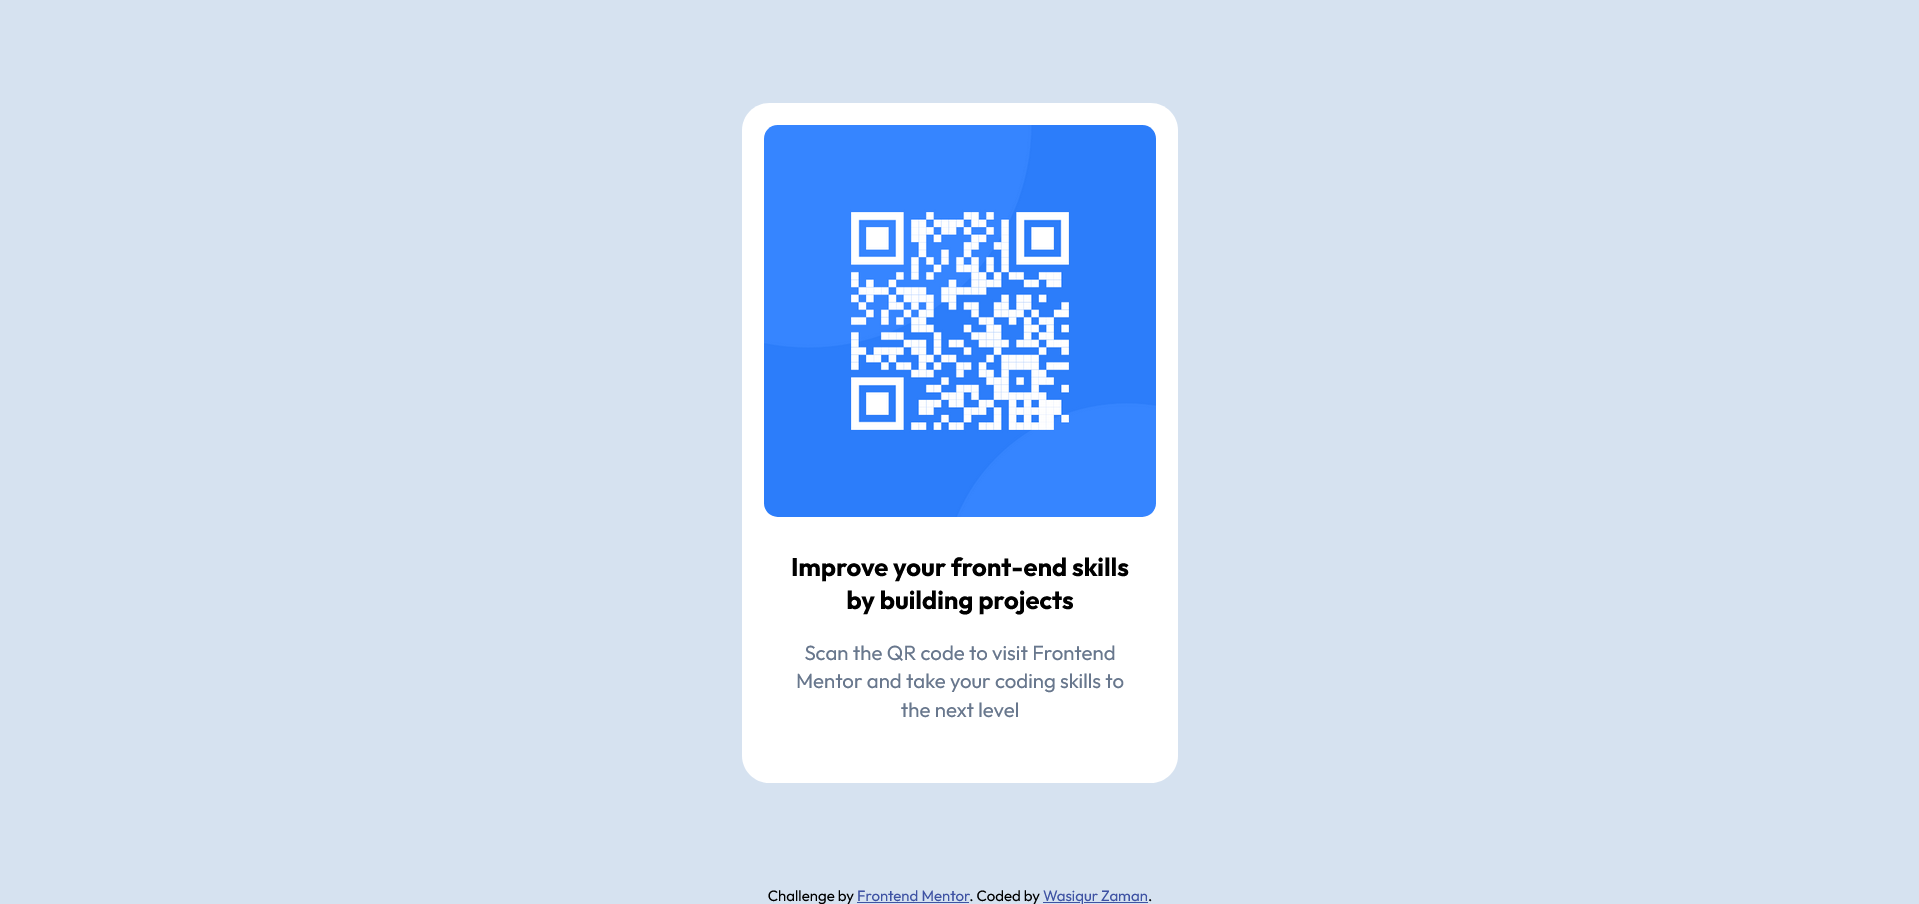
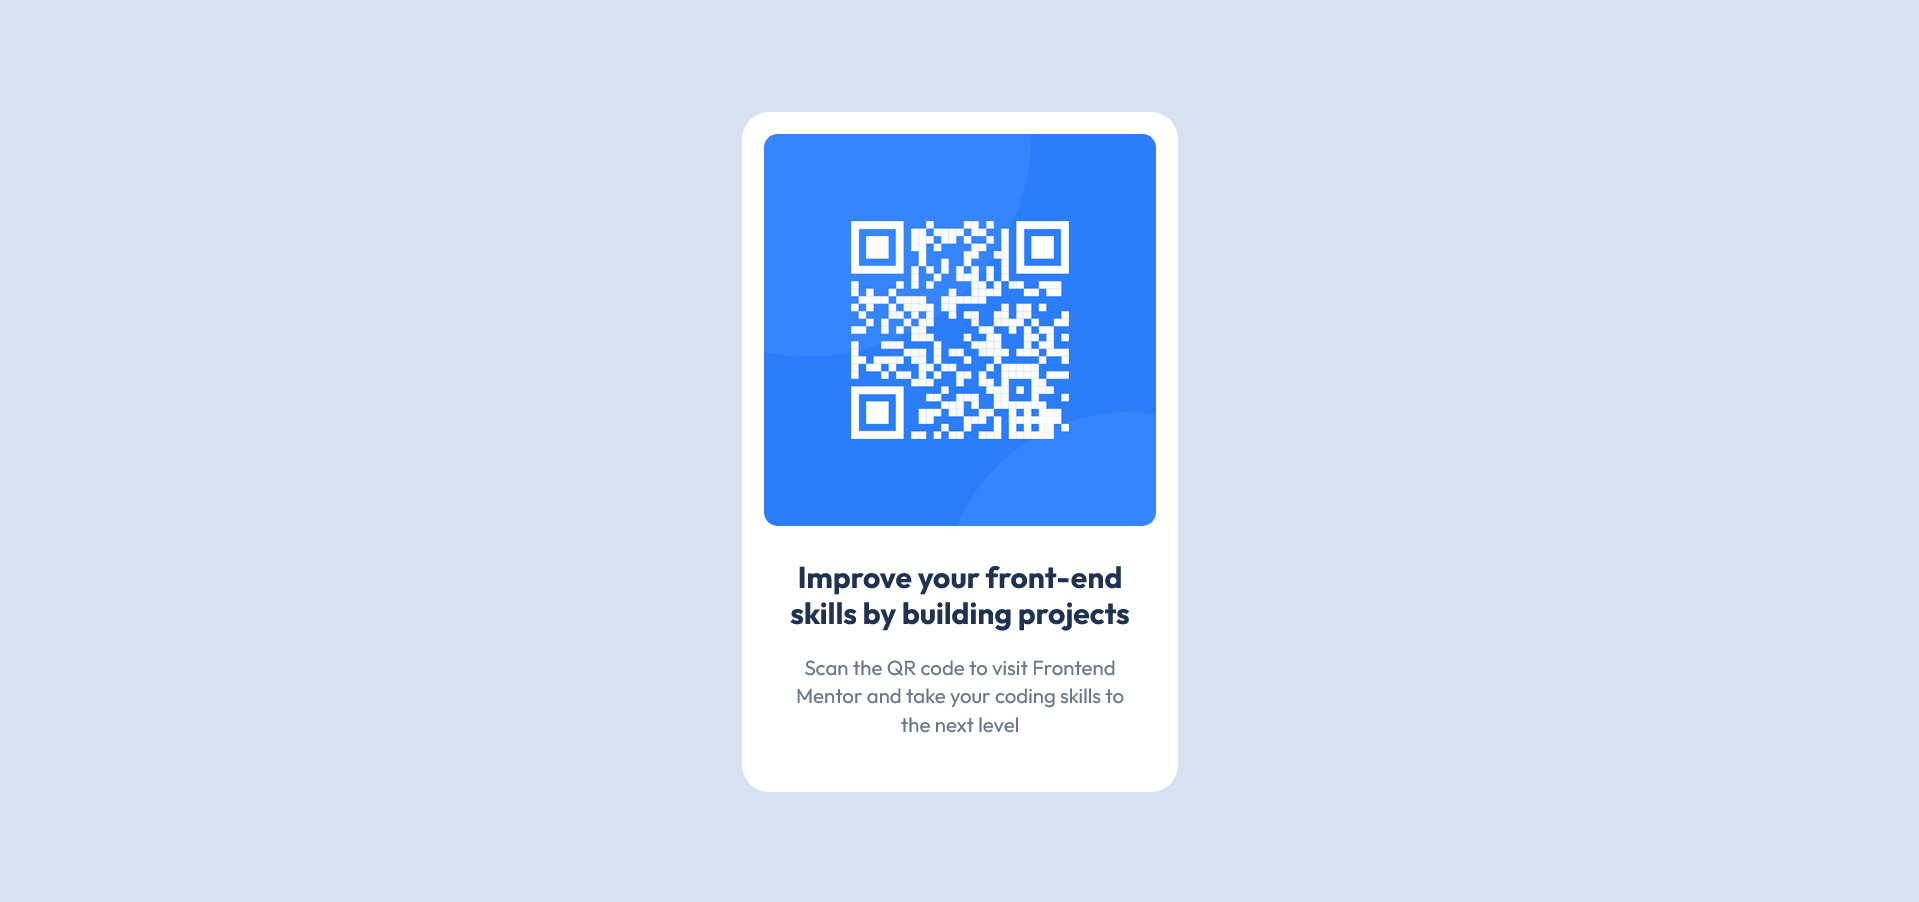
Some changes in styling

diff --git a/index.html b/index.html
@@ -34,7 +34,7 @@
           <img src="./images/image-qr-code.png" alt="" />
         </div>
         <div class="bottom">
-          <h3>Improve your front-end skills by building projects</h3>
+          <h2>Improve your front-end skills by building projects</h2>
           <p>
             Scan the QR code to visit Frontend Mentor and take your coding
             skills to the next level

diff --git a/README.md b/README.md
@@ -7,13 +7,8 @@ This is a solution to the [QR code component challenge on Frontend Mentor](https
 - [Overview](#overview)
   - [Screenshot](#screenshot)
   - [Links](#links)
-- [My process](#my-process)
   - [Built with](#built-with)
-  - [What I learned](#what-i-learned)
-  - [Continued development](#continued-development)
-  - [Useful resources](#useful-resources)
 - [Author](#author)
-- [Acknowledgments](#acknowledgments)
 
 ## Overview
 
